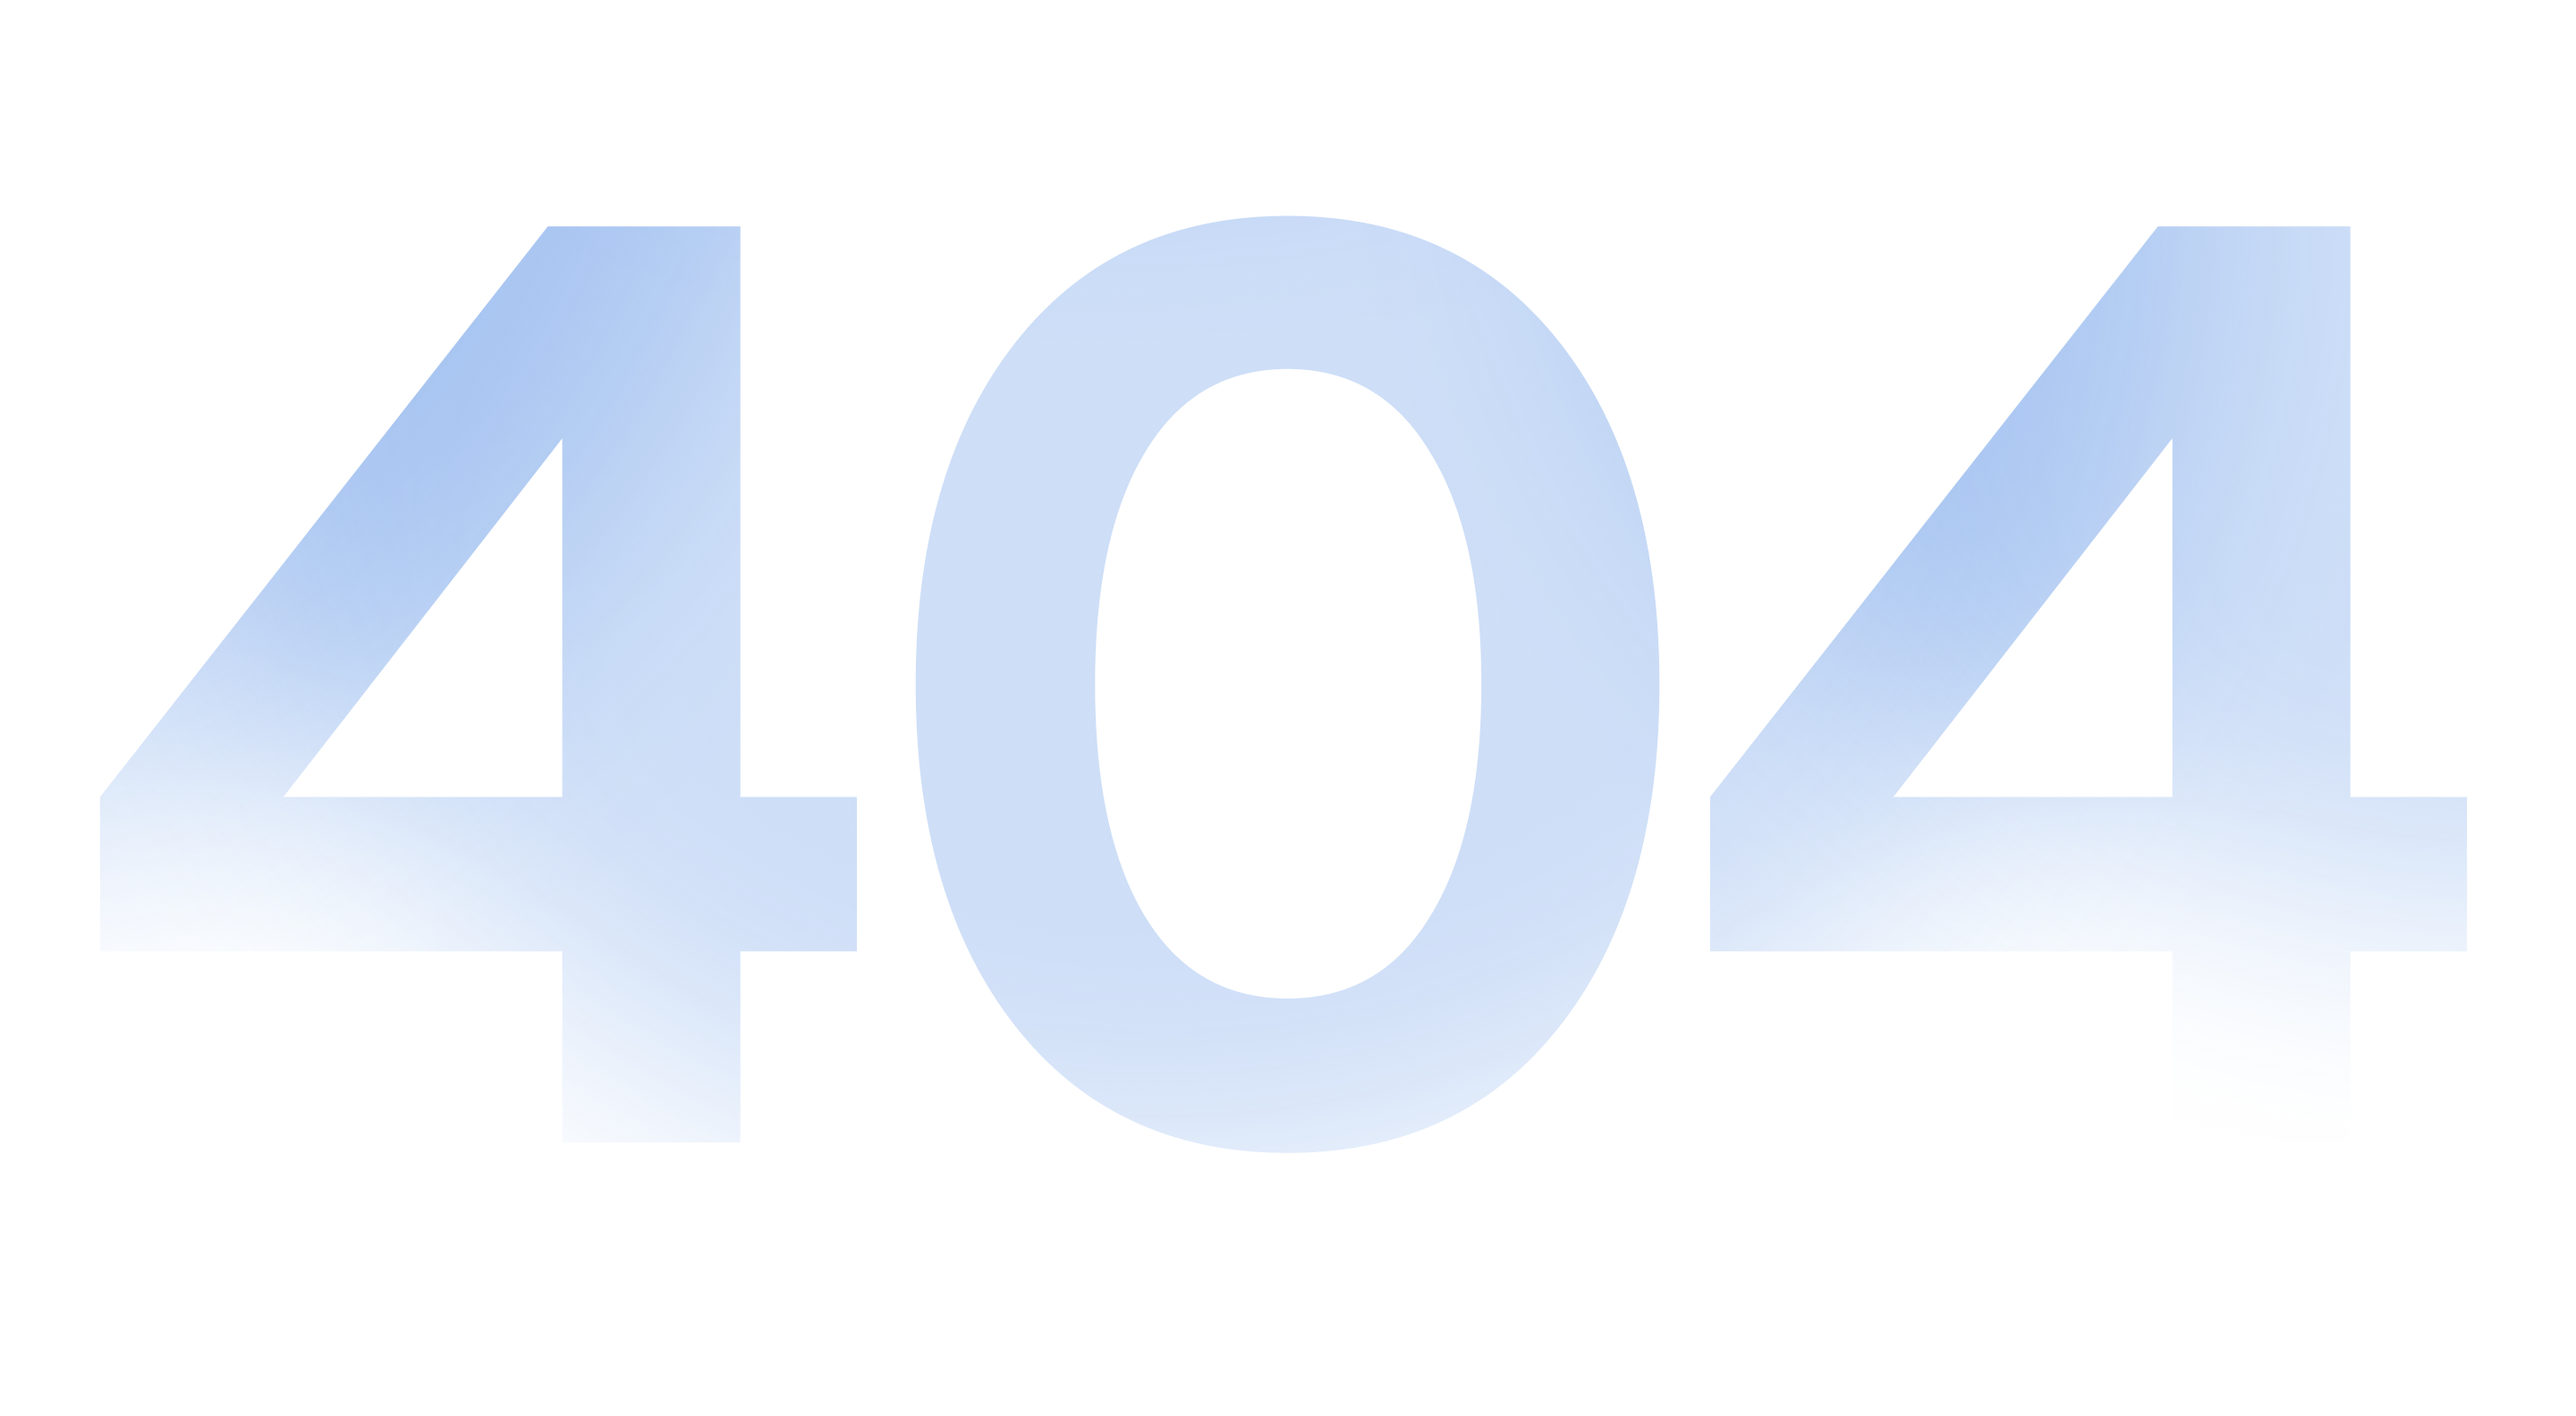
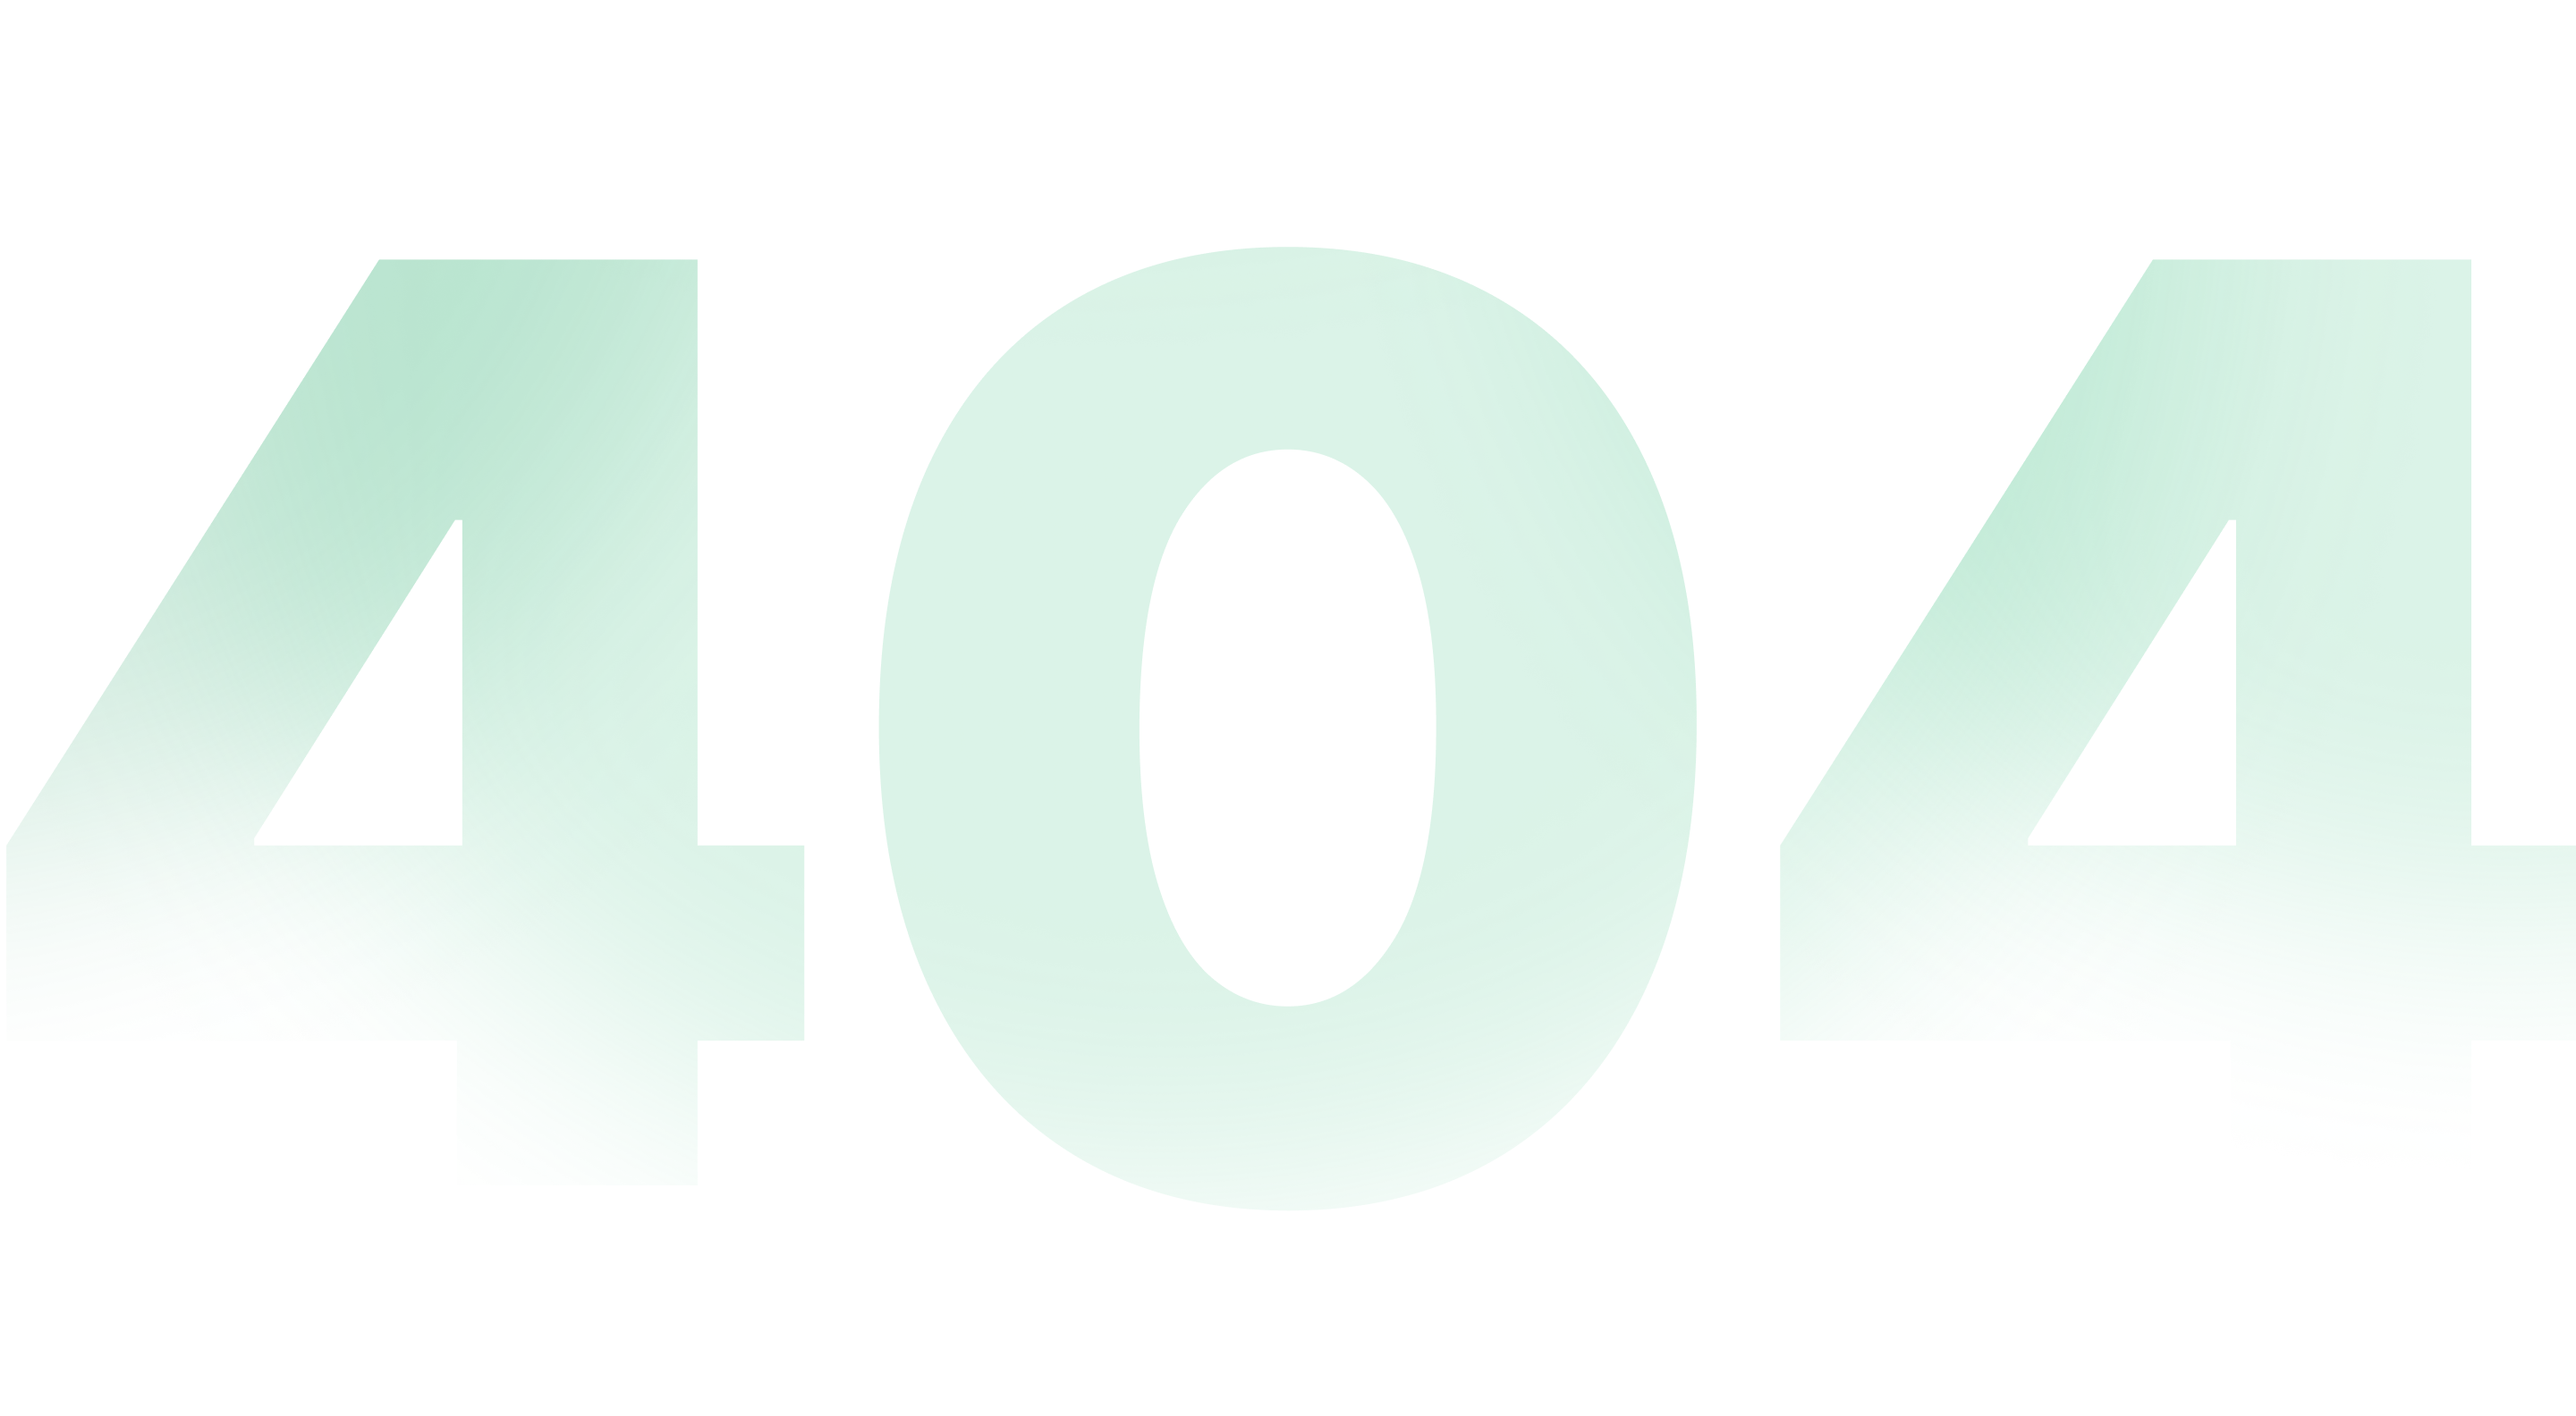
Fix 404 page

diff --git a/packages/www/pages/[slug].tsx b/packages/www/pages/[slug].tsx
@@ -1,7 +1,7 @@
 import Fade from "react-reveal/Fade";
 import Layout from "layouts/main";
 import imageUrlBuilder from "@sanity/image-url";
-import DefaultError from "components/Site/DefaultError";
+import DefaultError from "components/Dashboard/DefaultError";
 import { getComponent } from "lib/utils";
 import { useRouter } from "next/router";
 import { Box } from "@livepeer/design-system";
@@ -9,7 +9,6 @@ import { client } from "lib/client";
 
 const Page = ({
   title,
-  slug,
   metaTitle,
   metaDescription,
   metaUrl,
@@ -17,7 +16,6 @@ const Page = ({
   content,
   noindex = false,
   preview,
-  alternateNavigation,
 }) => {
   const router = useRouter();
   const builder = imageUrlBuilder(client as any);
@@ -31,6 +29,7 @@ const Page = ({
             display: "flex",
             alignItems: "center",
             justifyContent: "center",
+            height: "100vh",
           }}>
           Loading...
         </Box>
@@ -52,8 +51,7 @@ const Page = ({
         alt: openGraphImage?.asset?.altText,
       }}
       url={metaUrl}
-      preview={preview}
-      navBackgroundColor={alternateNavigation ? "$hiContrast" : ""}>
+      preview={preview}>
       {content.map((component, i) => (
         <Fade key={i}>{getComponent(component)}</Fade>
       ))}
@@ -62,23 +60,6 @@ const Page = ({
 };
 
 export async function getStaticPaths() {
-  // @ts-ignore
-  // const { allPage } = await request(
-  //   "https://dp4k3mpw.api.sanity.io/v1/graphql/production/default",
-  //   print(allPages),
-  //   {
-  //     where: {},
-  //   }
-  // );
-  // let paths = [];
-  // for (const page of allPage) {
-  //   paths.push({ params: { slug: page.slug.current } });
-  // }
-
-  // paths = paths.filter(
-  //   (p) => p.params.slug !== "jobs" && p.params.slug !== "team"
-  // );
-  // const client = getClient();
   const queryForPaths = `*[_type=='page' && defined(slug.current)][].slug.current`;
   const data: string[] = (await client.fetch(queryForPaths)) ?? [];
   const paths = data
@@ -91,31 +72,13 @@ export async function getStaticPaths() {
 }
 
 export async function getStaticProps({ params, locale }) {
-  // const id = {
-  //   en: "",
-  //   es: "i18n_es-ES",
-  // };
-
   const { slug } = params;
-  console.log("slig: ", slug);
   const queryParams = {
     slug,
   };
-  // const client = getClient();
+
   const query = `*[_type=="page" && slug.current == $slug][0]`;
   const pageData = (await client.fetch(query, queryParams)) ?? {};
-  console.log("pageData: ", pageData);
-  // const graphQLClient = new GraphQLClient(
-  //   "https://dp4k3mpw.api.sanity.io/v1/graphql/production/default"
-  // );
-
-  // const variables = {
-  //   where: { slug: { current: { eq: slug } }, _id: { matches: id[locale] } },
-  // };
-
-  // let data: any = await graphQLClient.request(print(allPages), variables);
-
-  // let page = data.allPage.find((p) => p.slug.current === slug);
 
   return {
     props: {

diff --git a/packages/www/components/Dashboard/DefaultError/index.tsx b/packages/www/components/Dashboard/DefaultError/index.tsx
@@ -1,5 +1,4 @@
 import Layout from "layouts/main";
-import Button from "components/Site/Button";
 import {
   Container,
   Heading,
@@ -14,26 +13,11 @@ const DefaultError = () => {
   return (
     <Layout>
       <Box css={{ position: "relative" }}>
-        <Image
-          src="/img/404.png"
-          alt="404"
-          style={{ objectFit: "contain" }}
-          width={1024}
-          height={400}
-          css={{
-            position: "absolute",
-            top: "50%",
-            left: "50%",
-            transform: "translate(-50%, -50%)",
-          }}
-        />
         <Container
           size="3"
           css={{
             position: "relative",
             px: "$4",
-            pt: 250,
-            pb: 250,
             my: "auto",
           }}>
           <Box
@@ -44,20 +28,29 @@ const DefaultError = () => {
               justifyContent: "center",
               textAlign: "center",
               position: "relative",
+              height: "100vh",
             }}>
+            <Image
+              src="/img/404.png"
+              alt="404"
+              layout="fill"
+              objectFit="contain"
+            />
             <Heading
               as="h1"
               css={{
                 fontWeight: 700,
                 mb: "$8",
-                lineHeight: "80px",
-                fontSize: 80,
+                lineHeight: "60px",
+                fontSize: "$9",
               }}>
               Something went wrong.
             </Heading>
             <Text size="5">The page you requested could not be found.</Text>
             <Link href="/" passHref legacyBehavior>
-              <A css={{ mt: "$4" }}>Go to the homepage</A>
+              <A css={{ zIndex: 100, position: "relative", mt: "$4" }}>
+                Go to the homepage
+              </A>
             </Link>
           </Box>
         </Container>
